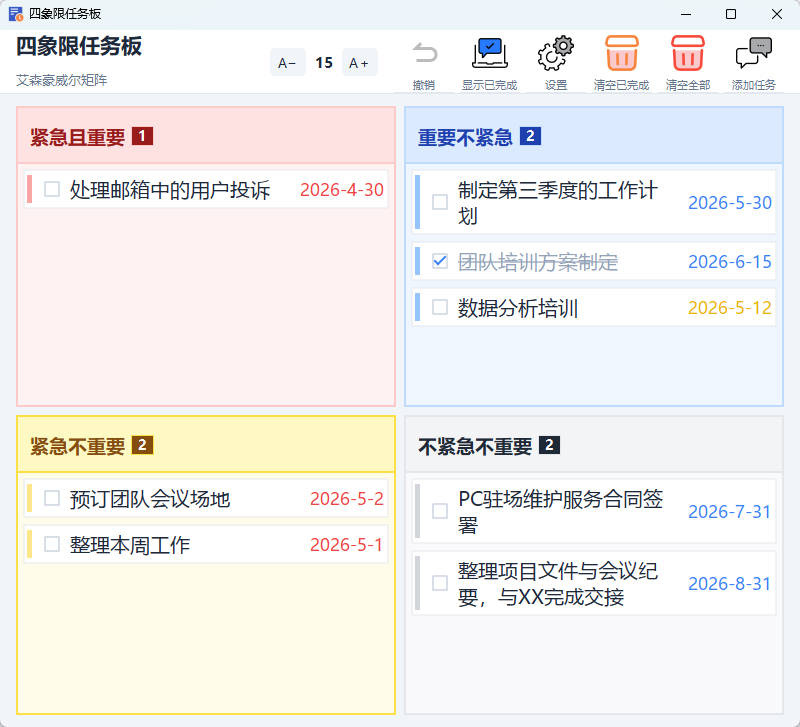
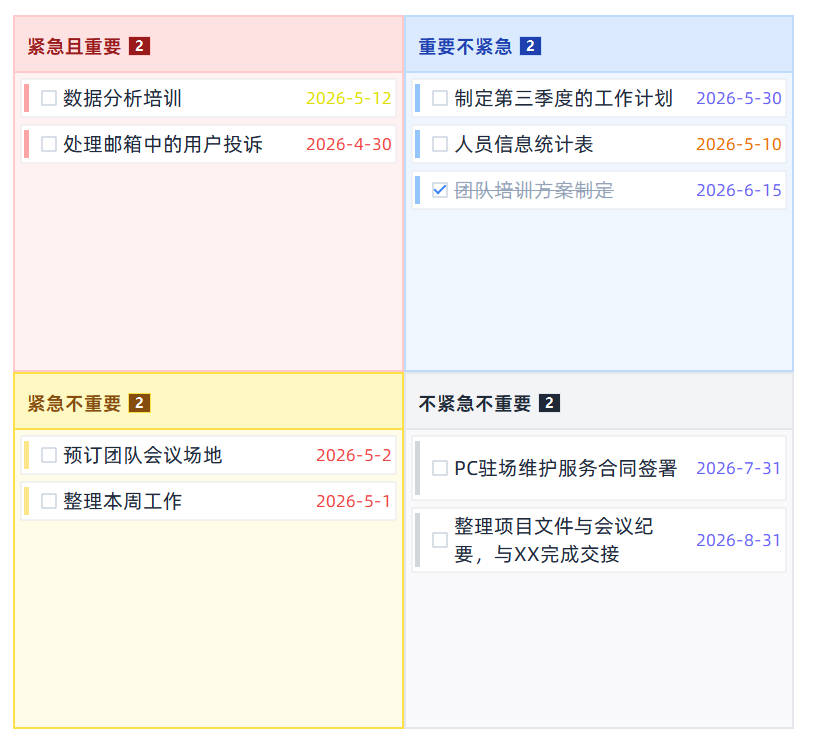
fix: 更新PyInstaller配置，添加runtime_hook.py支持

diff --git a/runtime_hook.py b/runtime_hook.py
@@ -1,0 +1,5 @@
+import sys
+import os
+
+if getattr(sys, 'frozen', False) and hasattr(sys, '_MEIPASS'):
+    sys.path.insert(0, sys._MEIPASS)
